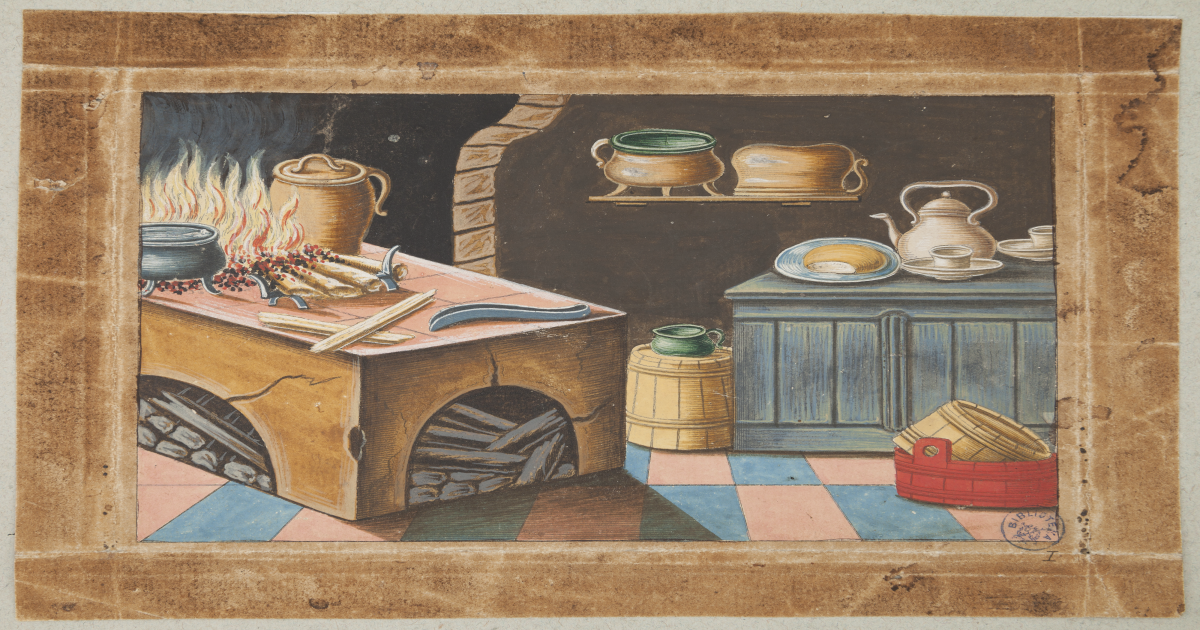
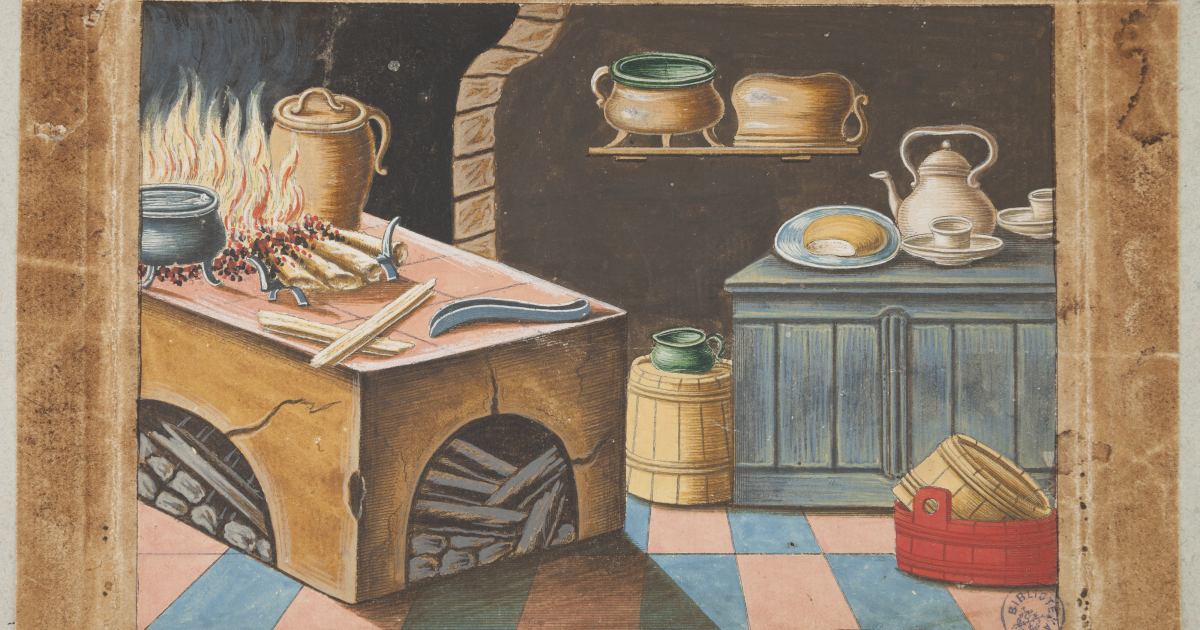
Cover, not resize

diff --git a/scripts/generateOgImages.js b/scripts/generateOgImages.js
@@ -25,7 +25,7 @@ fs.readdir(inputDirectory, (err, files) => {
 
       Jimp.read(inputPath)
         .then((image) => {
-          return image.resize(desiredWidth, desiredHeight);
+          return image.cover(desiredWidth, desiredHeight);
         })
         .then((resizedImage) => {
           return resizedImage.write(outputPath);
